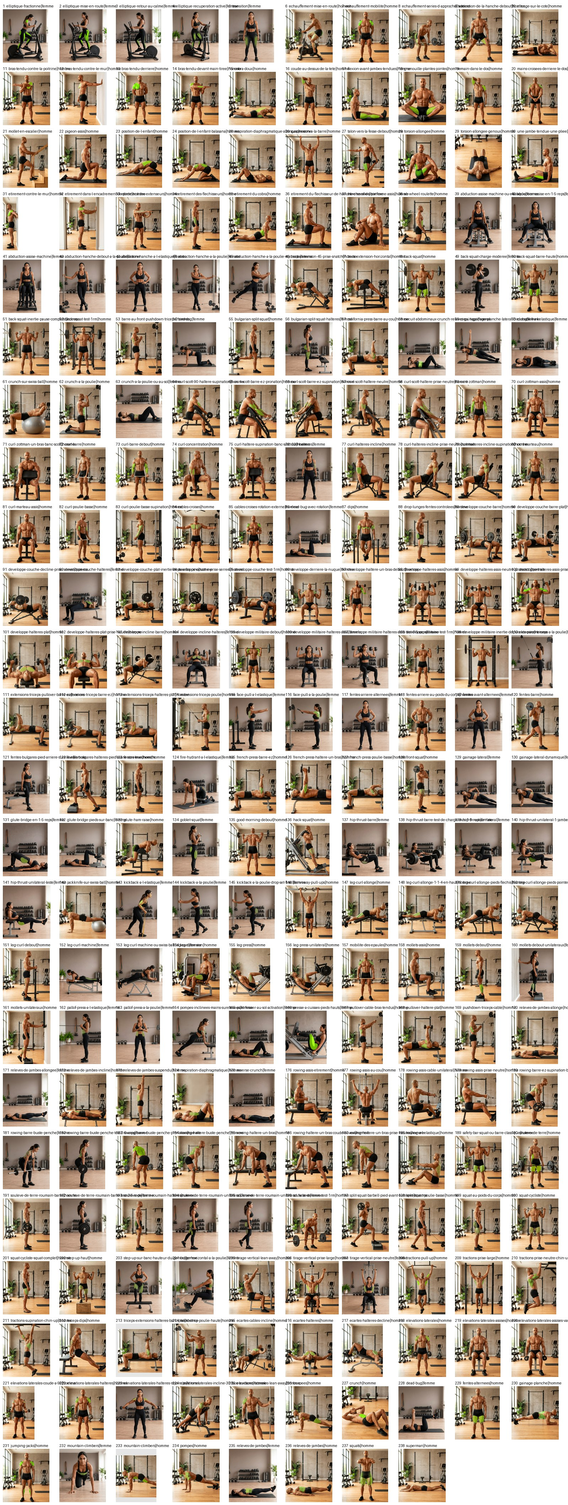
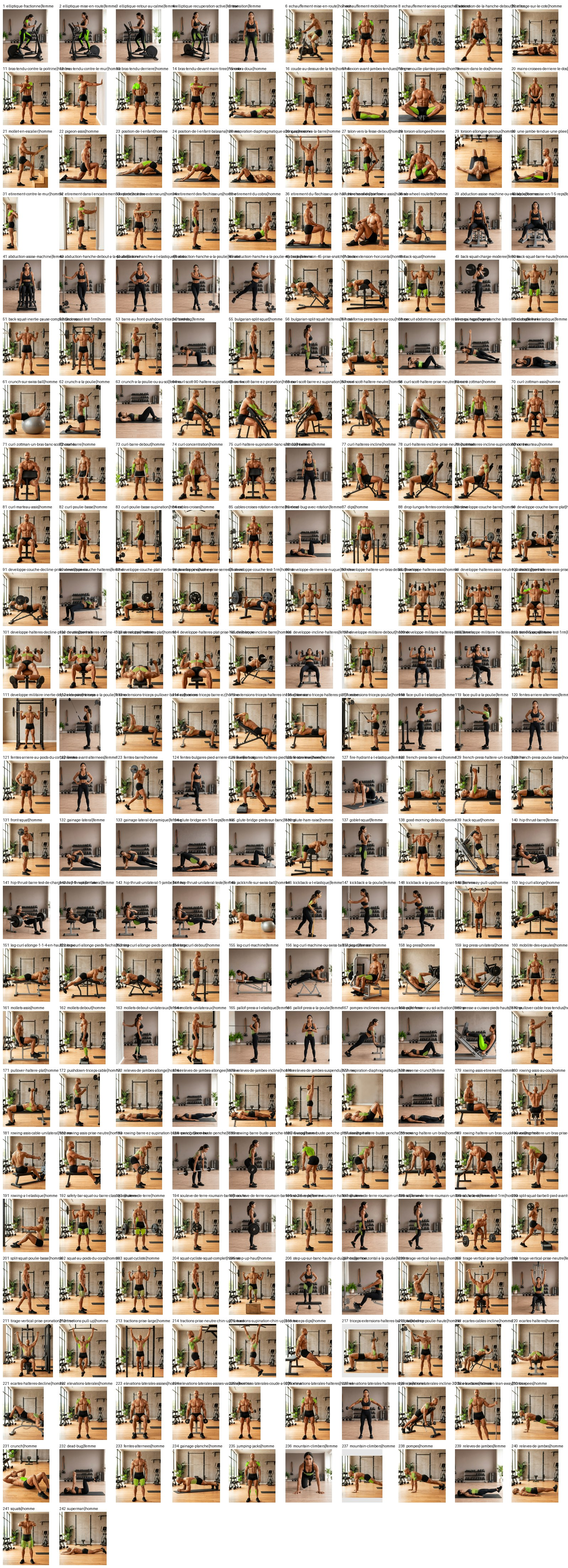
Lot 37 : 5 acceptees (declines/incline neutre FACE, ext triceps incline, tirage pronation, gainage planche remplace) ; 3 refus (sd-partiel 6e, mollets presse 4e, drop lunges haltere orphelin) ; edition testee = echec ; relecture-17 3/3 ; etat 242/331, 89 restants

diff --git a/CE-QUI-COINCE.md b/CE-QUI-COINCE.md
@@ -1,19 +1,20 @@
-# 🚧 Ce qui coince — état au 25 septembre 2026, après lot 36
+# 🚧 Ce qui coince — état au 25 septembre 2026, après lot 37
 
 Liste demandée pour revue de votre côté. Tout le reste du flux tourne normalement
-(**238 / 331** visuels validés, 93 restants) ; ce fichier ne contient que les points
+(**242 / 331** visuels validés, 89 restants) ; ce fichier ne contient que les points
 bloquants ou qui demandent une décision.
 
-## 1. Les 2 planches qui résistent encore (stratégie édition au prochain tour)
+## 1. Les 3 planches encore refusées (je continue dessus au prochain tour)
 
 | Mouvement | Ce qui coince, mesuré | Déjà essayé | Solution prévue au prochain tour | Décision attendue de vous |
 |---|---|---|---|---|
-| **Soulevé de terre partiel (homme)** — 5 refus | le générateur ne dessine JAMAIS le départ barre posée sur les pins buste 45° ; vert souvent posé sur quadriceps | 4 prompts texte, cases séparées, vocabulaire « deadlift bottom », consignes de vert | **lot37 : ÉDITION d'image** : partir de la case lockout propre et faire descendre barre sur pins + buste 45° par edit | aucune |
-| **Mollets à la presse (homme)** — 3 refus | genoux fléchis (donc leg press) et/ou vert sur tibias ; une case 2 générée en planche double | presse 45°, « genoux tendus identiques », cases séparées | **lot37 : 1 case générée puis ÉDITION** de la même image pour la case 2 (talon haut) : paire cohérente garantie | aucune |
+| **Soulevé de terre partiel (homme)** — 6 refus | même par ÉDITION le départ barre sur pins buste 45° n'apparaît pas (l'edit a retourné la vue de dos) | prompts texte, cases séparées, « deadlift bottom », édition | **lot38 : BLOCK PULL sans pins** : barre posée sur deux blocs noirs sous les disques, barre à mi-tibia ; départ hanche basse / lockout | aucune |
+| **Mollets à la presse (homme)** — 4 refus | édition quasi identique à la case 1 : chevilles immobiles, vert sur tibias | presse 45°, genoux tendus, cases séparées, édition | **lot38 : talons DÉBORDANT de la plaque** : case 1 talons pendus dans le vide sous la plaque, case 2 talons montés au-dessus | aucune |
+| **Drop lunges fentes sautées contrôlées (homme)** — 1 refus | permutation de jambes correcte mais haltère orphelin en case 1, aucun en case 2 | haltères aux deux mains | **lot38 : poids du corps**, mains sur les hanches aux deux cases, AUCUN haltère | aucune |
 
-Clos ce tour (3 des 5 refus) : curl haltères incliné prise neutre (format 2 panneaux),
-relevés de jambes suspendu (format 2 panneaux), hip thrust barre (BARRE longue aux deux
-disques, plus d'haltères).
+Clos ce tour : développés haltères décliné et incliné 45° prise neutre (vue de FACE pied de
+banc), extensions triceps haltères incliné, tirage vertical prise pronation ; gainage
+planche régénéré et relu (remplace le GIF précédent, couple déjà valide).
 
 ## 2. Blocs techniques récurrents du générateur d'images (constats, pas des excuses)
 

diff --git a/evolution/media/refonte-photo/PASSATION-NOUVEAU-CHAT.md b/evolution/media/refonte-photo/PASSATION-NOUVEAU-CHAT.md
@@ -10,18 +10,18 @@ session neuve (sans mémoire de la conversation précédente) puisse continuer s
 - Dépôt : `Yandevil974/JARVIS-Fitness-Yanis-Emilie.apk`
 - Branche de travail **obligatoire** : `arena/01a0d6f5-jarvis-fitness-yanis-emilie-ap`
   (session Arena courante ; ne jamais pousser sur `main`, ne jamais créer d'autre branche).
-- Avancement : **238 / 331 animations validées** (`production/etat.json`, clé `chiffres`).
-  Restent **93** : piscine (protocoles) 40, tabata au sol 27, musculation 11,
-  piscine (guides) 9, aqua tabata 6.
+- Avancement : **242 / 331 animations validées** (`production/etat.json`, clé `chiffres`).
+  Restent **89** : piscine (protocoles) 40, tabata au sol 27, piscine (guides) 9,
+  aqua tabata 6, musculation 7.
   Terminés : **étirements 29 ✅, elliptique 5 ✅, échauffement 3 ✅**.
 - **Vérification des mouvements déjà créés (25/09)** : 70 couples relus case par case
   (`verification/VERIFICATION-2026-09-25.md`) ; 7 gestes faux trouvés parmi les livrés
   (4 refaits et acceptés au lot 17 ; 3 retirés des valides ce tour : back-squat-barre-haute,
-  back-squat-inertie-pause-complete, burpees) ; **46 couples restent à relire** (feuilles de 3,
-  192 déjà relus).
+  back-squat-inertie-pause-complete, burpees) ; **42 couples restent à relire** (feuilles de 3,
+  200 déjà relus).
   Style : 21 GIF ont une case sans vert lime (`production/style-a-reprendre.json`),
   à reprendre dans un lot dédié sans toucher aux gestes.
-- Index visuel numéroté : `review/index-general.jpg` (238 vignettes, régénéré à chaque lot).
+- Index visuel numéroté : `review/index-general.jpg` (242 vignettes, régénéré à chaque lot).
 
 ## 2. Ce que l'utilisateur a demandé (et qui ne change pas)
 
@@ -117,9 +117,10 @@ $P evolution/media/tools/refonte-sheet.py --athlete homme --out $R/gif/homme \
 
 ## 7. À faire au démarrage du nouveau chat
 
-1. Reprendre les **2 planches en attente** (`production/a-refaire.json`) par ÉDITION d'image :
-   souleve-de-terre-partiel (5ᵉ refus → éditer la case lockout en case départ barre sur pins buste 45°)
-   et mollets-a-la-presse (3ᵉ refus → 1 case générée puis éditée en paire talon bas/talon haut).
+1. Reprendre les **3 planches en attente** (`production/a-refaire.json`) : souleve-de-terre-partiel
+   (6ᵉ refus → block pull sur blocs noirs, sans pins), mollets-a-la-presse (4ᵉ refus → talons
+   débordant de la plaque), drop-lunges-fentes-sautees-controlees (1ᵉʳ refus → poids du corps,
+   aucun haltère). L'édition d'image a été testée au lot 37 sur les deux premières : échec.
    Clos au lot 36 : curl-halteres-incline-prise-neutre, releves-de-jambes-suspendu, hip-thrust-barre.
    Résolus au lot 35 : tirage-vertical-prise-neutre (poignées parallèles) et mollets-unilateraux
    (pied libre croisé en l'air). Résolus au lot 34 : ab-wheel et extensions-triceps-barre-ez.

diff --git a/evolution/media/refonte-photo/verification/VERIFICATION-2026-09-25.md b/evolution/media/refonte-photo/verification/VERIFICATION-2026-09-25.md
@@ -414,3 +414,25 @@ valides relus**, **46 restent a relire**. **2 planches en attente** dans
 `production/a-refaire.json` : souleve-de-terre-partiel (5e refus) et mollets-a-la-presse
 (3e refus), toutes deux vers la strategie d'EDITION. Prochain lot 37 : ces 2 planches par
 edition + 8 planches (musculation 11 puis tabata au sol 27).
+
+## 45. Lot 37 : edits et vues de FACE pied de banc (meme tour)
+
+Strategie edition testee sur les 2 resistantes : echec (sd-partiel : l'edit retourne la vue
+de dos sans hinge ; mollets-presse : edit quasi identique, chevilles immobilees).
+Acceptees 5 : developpe-halteres-decline-prise-neutre et developpe-halteres-incline-45-prise-neutre
+(vues de FACE pied de banc, deux halteres separes), extensions-triceps-halteres-incline,
+tirage-vertical-prise-pronation, gainage-planche (couple DEJA valide : nouvelle planche relue
+et conforme, remplace le GIF precedent).
+Refusees 3 : souleve-de-terre-partiel (6e), mollets-a-la-presse (4e), drop-lunges-fentes-sautees-controlees
+(1er : haltere orphelin case 1).
+Relecture batch 17 : 3/3 conformes (hip-thrust-barre confirmee avec BARRE, jumping-jacks,
+lean-away-pull-ups). Feuilles : `verification/lot37b-01..03.jpg`, `verification/relecture-17.jpg`.
+
+## 46. Couverture et suite (etat lot 37)
+
+**242 / 331 couples valides**, 89 restants (protocoles piscine 40, tabata au sol 27,
+piscine guides 9, aqua tabata 6, musculation 7). Relecture cumulative : **200 couples
+valides relus**, **42 restent a relire**. **3 planches en attente** dans
+`production/a-refaire.json` : souleve-de-terre-partiel (6e), mollets-a-la-presse (4e),
+drop-lunges-fentes-sautees-controlees (1er). Prochain lot 38 : ces 3 planches (block pull,
+talons debordants, poids du corps) + 7 planches (musculation 7 puis tabata au sol 27).

diff --git a/PASSATION.md b/PASSATION.md
@@ -13,7 +13,7 @@ deux GIF distincts (l'un à l'homme, l'autre à la femme). L'écart inexpliqué 
 
 | Surface | Faits et vérifiés | Restants |
 |---|---|---|
-| Musculation | 191 | 11 |
+| Musculation | 195 | 7 |
 | Tabata au sol | 10 | 27 |
 | Étirements | 29 | 0 ✅ |
 | Piscine (guides) | 0 | 9 |
@@ -21,7 +21,7 @@ deux GIF distincts (l'un à l'homme, l'autre à la femme). L'écart inexpliqué 
 | Aqua Tabata | 0 | 6 |
 | Elliptique | 5 | 0 ✅ |
 | Échauffement | 3 | 0 ✅ |
-| **Total** | **238** | **93** |
+| **Total** | **242** | **89** |
 
 **25 septembre 2026 — reprise dans un nouveau chat : les mouvements déjà créés ont été
 vérifiés avant de produire.** 119 GIF livrés mesurés (`evolution/media/tools/verif-gifs.py` :
@@ -31,7 +31,7 @@ quasi-doubles) puis **38 relus case par case** en pleine définition
 (développé couché test 1RM montré assis, leg curl 1 1/4 cases inversées, dead bug rotation
 sans position dead bug, grenouille sans la posture prescrite) — refaits, relus et acceptés
 au **lot 17** avec 4 mouvements neufs (123 / 331). Deux planches restent en 3ᵉ essai
-(`production/a-refaire.json`), **46 couples valides restent à relire**, et 21 GIF ont une
+(`production/a-refaire.json`), **42 couples valides restent à relire**, et 21 GIF ont une
 case sans vert lime (`production/style-a-reprendre.json`, lot style dédié à venir).
 Détail mesuré : `evolution/media/refonte-photo/verification/VERIFICATION-2026-09-25.md`.
 
